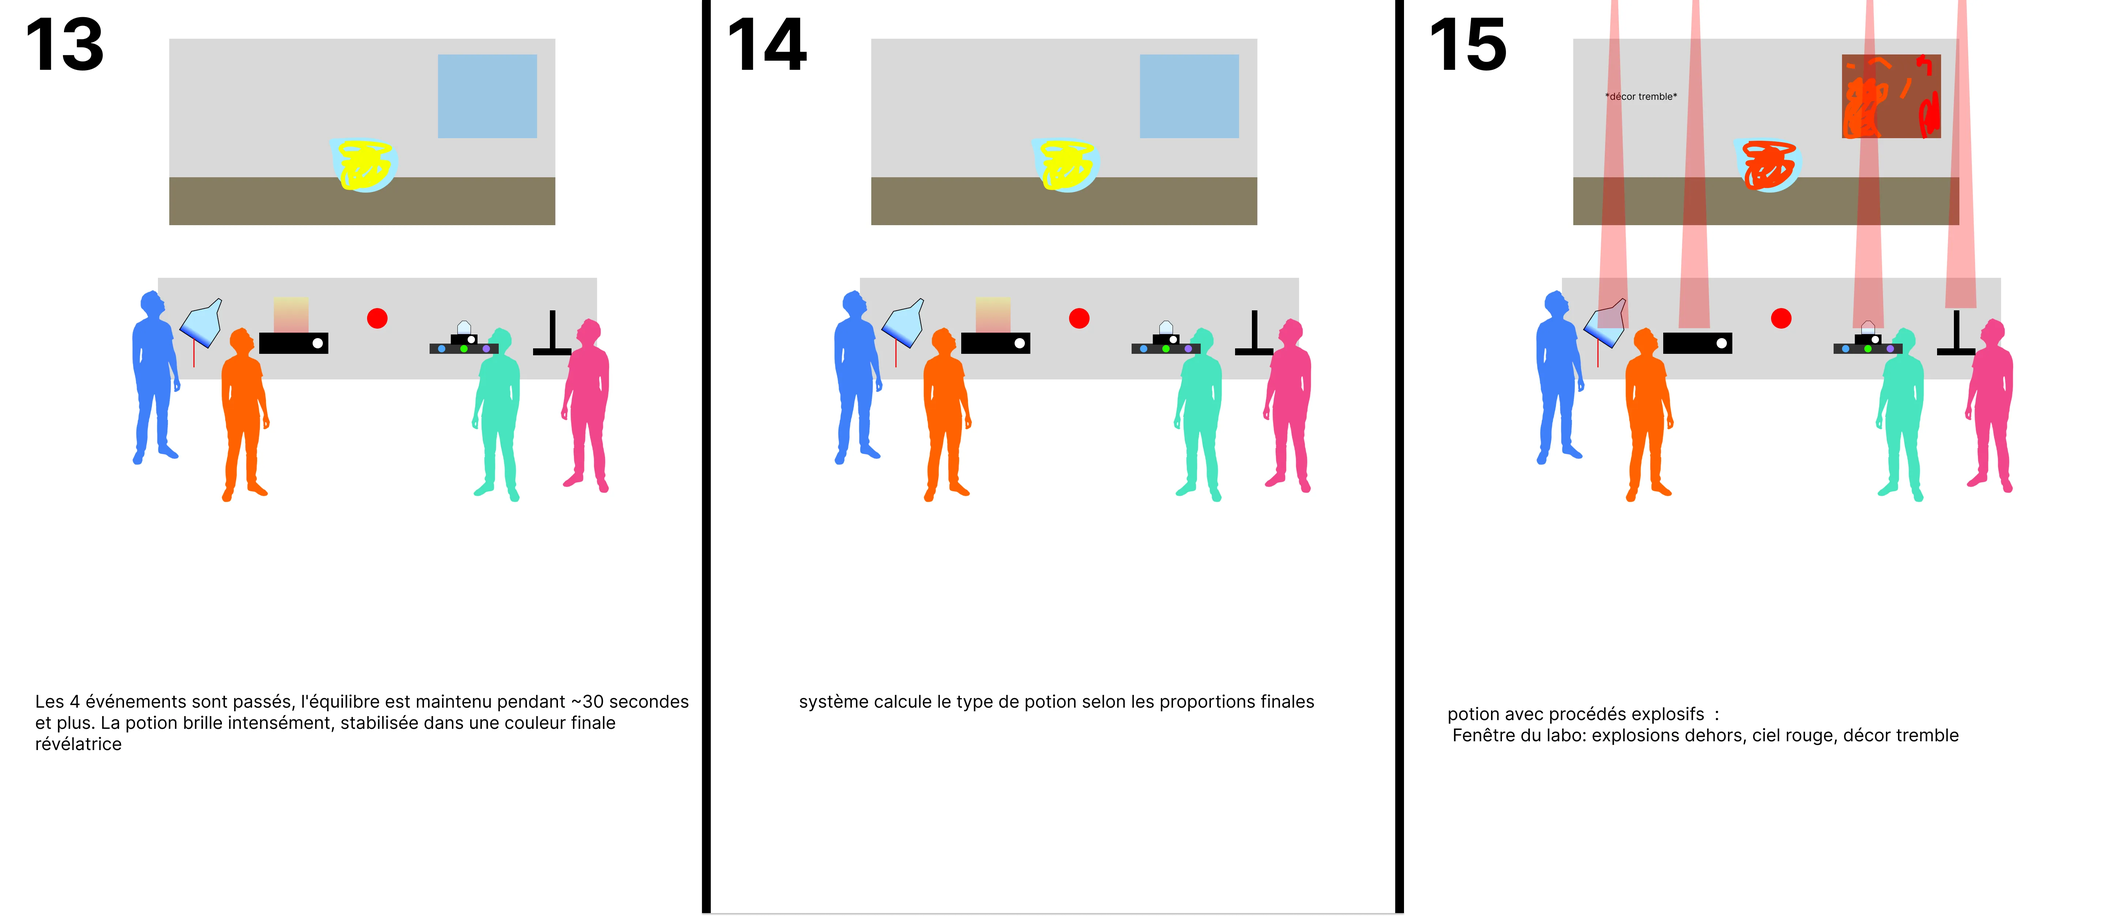
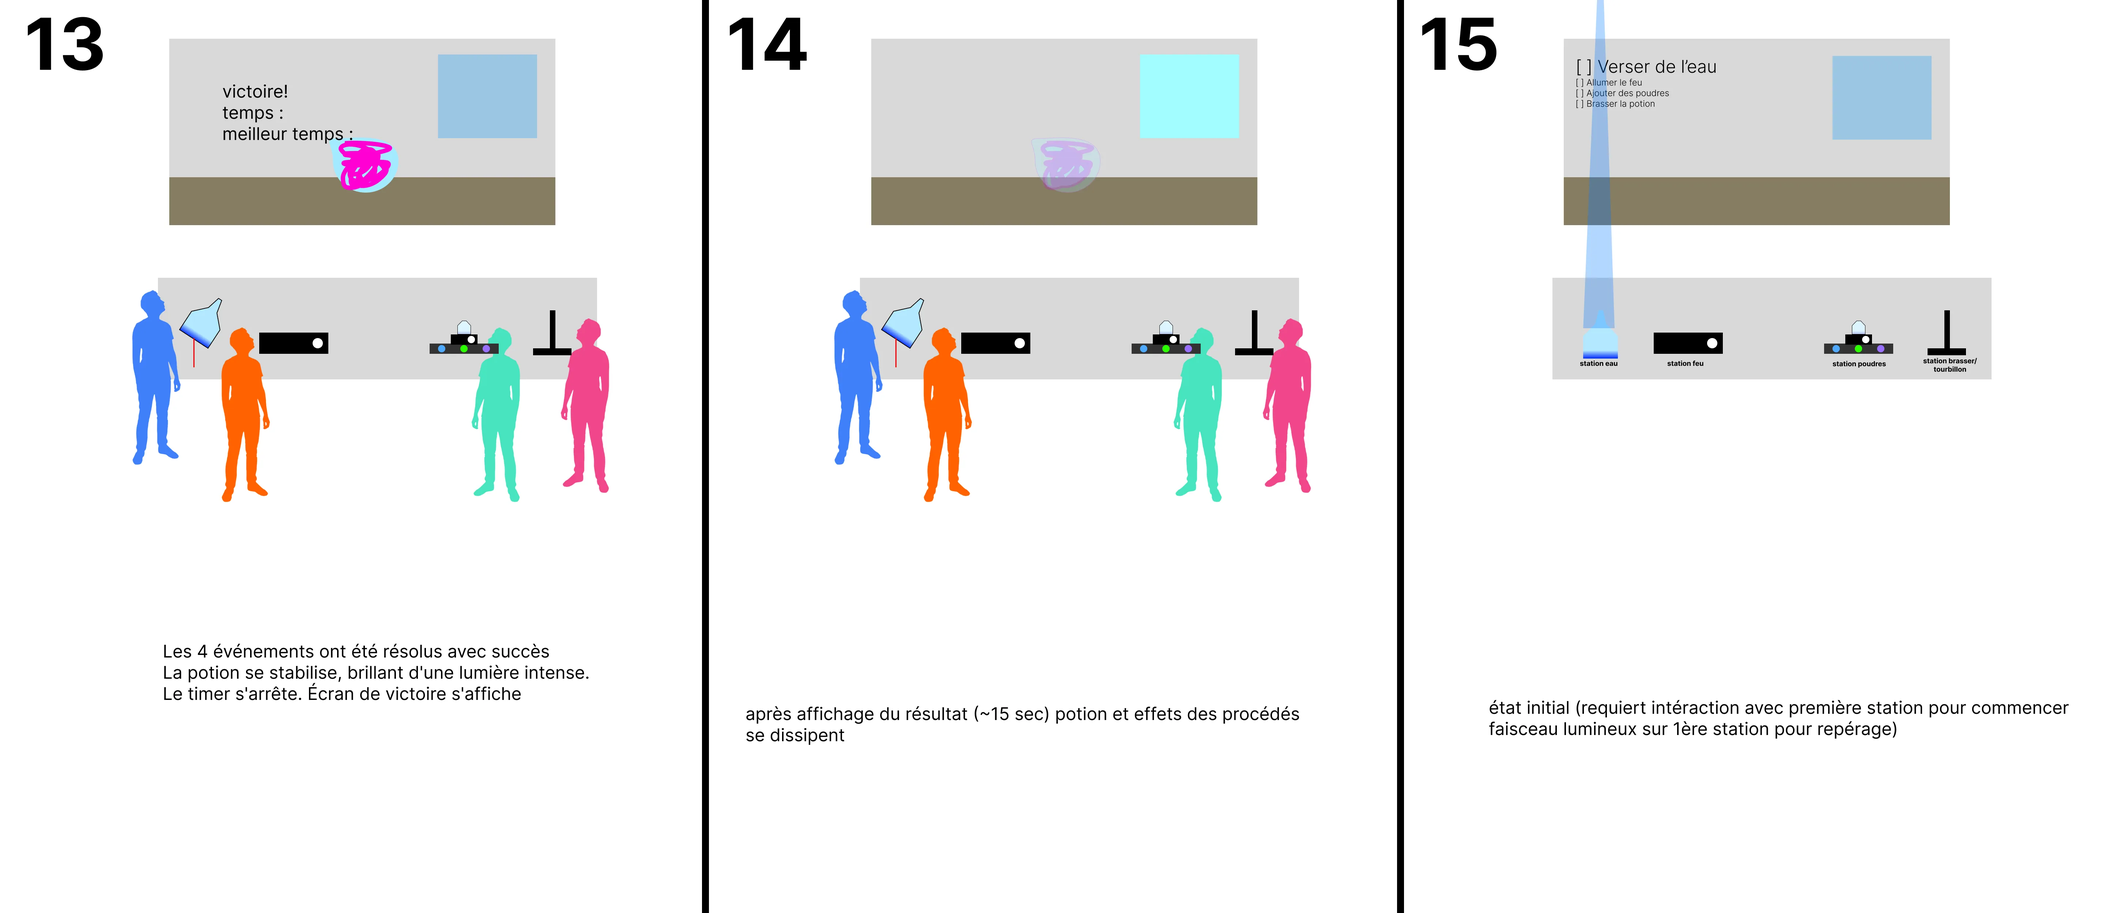
+ Scenarimage

diff --git a/scenario/README.md b/scenario/README.md
@@ -50,20 +50,6 @@ Cette section présente le scénario de l'interactivité du projet Symbiose.
 |--------------|---------------------------|--------------|--------------|------------------|
 | **Basculer** | Le joystick est manipulé dans n'importe quelle direction | La potion tourbillonne dans le bécher, effet de rotation visible. "✓ 4. Brasser la potion" se coche. Tous les faisceaux lumineux s'éteignent. Message central apparaît : "Tutoriel terminé ! Les événements commencent dans 10 secondes..." avec compte à rebours | Son de brassage liquide + Accord de succès musical | Les 4 stations deviennent toutes actives simultanément. La checklist disparaît progressivement |
 
-**Déclencheur suivant** : → Passe à **Scène 5** automatiquement après 10 secondes
-
----
-
-## Scène 5 : Phase active - Préparation libre
-
-| Verbe action | Condition de déclenchement | Effet visuel | Effet sonore | Effet interactif |
-|--------------|---------------------------|--------------|--------------|------------------|
-| **Agiter** | L'erlenmeyer est agité à la station Eau | L'eau continue de se verser dans le bécher, niveau fluctue selon l'intensité | Son d'eau versée (volume proportionnel à l'intensité) | Le niveau d'eau dans la potion varie en temps réel |
-| **Tourner** | Le knob du brûleur est tourné à la station Feu | L'intensité du feu varie (flammes plus ou moins hautes). Les LEDs physiques s'ajustent | Flamme crépitante (intensité variable selon position du knob) | La température de la potion fluctue |
-| **Tourner** | Un des 3 knobs de poudre est tourné à la station Poudres | Flux de poudre colorée s'écoule dans le bécher. La couleur de la potion évolue selon les mélanges | Son de poudre versée + Variations tonales selon la poudre | La composition chimique de la potion change |
-| **Basculer** | Le joystick est manipulé à la station Tourbillon | La rotation de la potion s'intensifie ou ralentit selon la direction et force | Son de tourbillon (intensité variable) | Le brassage affecte la stabilité de la potion |
-| **Expérimenter** | Les 4 participants manipulent librement leurs stations simultanément | La potion réagit de manière complexe : couleurs se mélangent, bulles apparaissent, texture change | Mix sonore des 4 stations + Sons réactifs de la potion (bulles, réactions chimiques) | La potion évolue selon l'équilibre collectif maintenu. Première familiarisation avec la coordination |
-
 **Déclencheur suivant** : → Passe à **Scène 6** automatiquement après 10 secondes (déclenchement du premier événement aléatoire)
 
 ---
@@ -72,11 +58,11 @@ Cette section présente le scénario de l'interactivité du projet Symbiose.
 
 | Verbe action | Condition de déclenchement | Effet visuel | Effet sonore | Effet interactif |
 |--------------|---------------------------|--------------|--------------|------------------|
-| **Réagir** | 10 secondes après la scène 5 | Un événement aléatoire se déclenche parmi : **Évaporation** (station Eau), **Cristallisation** (station Poudres), **Gel** (station Feu), ou **Vortex** (station Tourbillon). Alerte visuelle : flash rouge, jauge de l'événement apparaît. Visuel spécifique à l'événement sur la potion et la fenêtre du laboratoire | Alerte sonore dramatique + Son spécifique à l'événement (ex: sifflement pour évaporation, craquements pour cristallisation) | Seule la station concernée peut résoudre l'événement. Les 3 autres stations restent actives mais n'influencent pas directement la résolution |
+| **Réagir** | 10 secondes après la scène 20 | Un événement aléatoire se déclenche parmi : **Évaporation** (station Eau), **Cristallisation** (station Poudres), **Gel** (station Feu), ou **Vortex** (station Tourbillon). Alerte visuelle : flash rouge, jauge de l'événement apparaît. Visuel spécifique à l'événement sur la potion et la fenêtre du laboratoire | Alerte sonore dramatique + Son spécifique à l'événement (ex: sifflement pour évaporation, craquements pour cristallisation) | Seule la station concernée peut résoudre l'événement. Les 3 autres stations restent actives mais n'influencent pas directement la résolution |
 | **Résoudre** | Le participant à la station concernée exécute l'action requise (voir détails ci-dessous) | La jauge de progression de l'événement se remplit graduellement. Le visuel de crise diminue proportionnellement | Feedback sonore positif progressif (notes ascendantes, sons apaisants) | Chaque action correcte fait progresser la résolution. Les autres participants peuvent surveiller et encourager |
-| **Maintenir** | Le participant continue l'action requise jusqu'à ce que la jauge soit pleine | La jauge atteint 100%. L'événement se résout complètement. Flash vert de succès. La potion revient à un état stable | Accord de victoire + Son de résolution | L'événement est résolu. Transition vers le prochain événement après 5 secondes |
+| **Maintenir** | Le participant continue l'action requise jusqu'à ce que la jauge soit pleine | La jauge atteint 100%. L'événement se résout complètement. Flash vert de succès. La potion revient à un état stable | Accord de victoire + Son de résolution | L'événement est résolu. Transition vers le prochain événement après 20 secondes |
 
-**Déclencheur suivant** : → Passe à **Scène 7** automatiquement 5 secondes après résolution de l'événement
+**Déclencheur suivant** : → Passe à **Scène 7** automatiquement 20 secondes après résolution de l'événement
 
 **Déclencheur échec** : → Passe à **Scène 11 (Échec)** si inactivité prolongée (30 secondes sans action) ou si stabilité globale atteint zéro
 
@@ -86,11 +72,11 @@ Cette section présente le scénario de l'interactivité du projet Symbiose.
 
 | Verbe action | Condition de déclenchement | Effet visuel | Effet sonore | Effet interactif |
 |--------------|---------------------------|--------------|--------------|------------------|
-| **Réagir** | 5 secondes après résolution de l'événement 1 | Deuxième événement aléatoire se déclenche (parmi les 3 événements restants non utilisés). Alerte visuelle et jauge apparaissent | Alerte sonore + Son spécifique au nouvel événement | Seule la nouvelle station concernée peut résoudre |
+| **Réagir** | 20 secondes après résolution de l'événement 1 | Deuxième événement aléatoire se déclenche (parmi les 3 événements restants non utilisés). Alerte visuelle et jauge apparaissent | Alerte sonore + Son spécifique au nouvel événement | Seule la nouvelle station concernée peut résoudre |
 | **Résoudre** | Action spécifique à l'événement (voir détails ci-dessous) | Jauge se remplit, visuel de crise diminue | Feedback positif progressif | Progression vers résolution |
 | **Maintenir** | Action continue jusqu'à jauge pleine | Flash vert de succès, événement résolu | Accord de victoire | Événement résolu |
 
-**Déclencheur suivant** : → Passe à **Scène 8** automatiquement 5 secondes après résolution
+**Déclencheur suivant** : → Passe à **Scène 8** automatiquement 20 secondes après résolution
 
 **Déclencheur échec** : → Passe à **Scène 11 (Échec)** si échec de résolution
 
@@ -100,11 +86,11 @@ Cette section présente le scénario de l'interactivité du projet Symbiose.
 
 | Verbe action | Condition de déclenchement | Effet visuel | Effet sonore | Effet interactif |
 |--------------|---------------------------|--------------|--------------|------------------|
-| **Réagir** | 5 secondes après résolution de l'événement 2 | Troisième événement aléatoire se déclenche (parmi les 2 événements restants). Alerte visuelle et jauge | Alerte sonore + Son spécifique | Seule la station concernée peut résoudre |
+| **Réagir** | 20 secondes après résolution de l'événement 2 | Troisième événement aléatoire se déclenche (parmi les 2 événements restants). Alerte visuelle et jauge | Alerte sonore + Son spécifique | Seule la station concernée peut résoudre |
 | **Résoudre** | Action spécifique à l'événement | Jauge se remplit, visuel diminue | Feedback positif | Progression |
 | **Maintenir** | Action continue jusqu'à résolution | Flash vert, événement résolu | Accord de victoire | Événement résolu |
 
-**Déclencheur suivant** : → Passe à **Scène 9** automatiquement 5 secondes après résolution
+**Déclencheur suivant** : → Passe à **Scène 9** automatiquement 20 secondes après résolution
 
 **Déclencheur échec** : → Passe à **Scène 11 (Échec)** si échec
 
@@ -114,7 +100,7 @@ Cette section présente le scénario de l'interactivité du projet Symbiose.
 
 | Verbe action | Condition de déclenchement | Effet visuel | Effet sonore | Effet interactif |
 |--------------|---------------------------|--------------|--------------|------------------|
-| **Réagir** | 5 secondes après résolution de l'événement 3 | Quatrième et dernier événement se déclenche. Alerte visuelle intense, jauge apparaît | Alerte finale dramatique + Son spécifique + Tension musicale accrue | Dernière station concernée doit résoudre |
+| **Réagir** | 20 secondes après résolution de l'événement 3 | Quatrième et dernier événement se déclenche. Alerte visuelle intense, jauge apparaît | Alerte finale dramatique + Son spécifique + Tension musicale accrue | Dernière station concernée doit résoudre |
 | **Résoudre** | Action spécifique au dernier événement | Jauge se remplit, tension visuelle maximale puis diminue | Feedback positif + Crescendo musical | Approche de la victoire |
 | **Maintenir** | Action continue jusqu'à résolution complète | Flash vert éclatant, tous les événements sont résolus. La potion brille intensément, effet de stabilisation spectaculaire | Crescendo musical victorieux culminant | Les 4 événements sont terminés |
 
@@ -128,9 +114,9 @@ Cette section présente le scénario de l'interactivité du projet Symbiose.
 
 | Verbe action | Condition de déclenchement | Effet visuel | Effet sonore | Effet interactif |
 |--------------|---------------------------|--------------|--------------|------------------|
-| **Contempler** | Les 4 événements ont été résolus avec succès | La potion se stabilise, brillant d'une lumière intense. Le timer s'arrête. Écran de victoire s'affiche : "POTION STABILISÉE !" + Temps réalisé (ex: 5:32) + Record absolu (ex: 4:12) + Message : "EXCELLENT TRAVAIL D'ÉQUIPE !" + "Pouvez-vous faire mieux ?" | Thème musical de victoire triomphant | Toutes les stations deviennent inactives. Le timer final est enregistré |
+| **Contempler** | Les 4 événements ont été résolus avec succès | La potion se stabilise, brillant d'une lumière intense. Le timer s'arrête. Écran de victoire s'affiche : "POTION STABILISÉE !" + Temps réalisé (ex: 20:32) + Record absolu (ex: 4:12) + Message : "EXCELLENT TRAVAIL D'ÉQUIPE !" + "Pouvez-vous faire mieux ?" | Thème musical de victoire triomphant | Toutes les stations deviennent inactives. Le timer final est enregistré |
 
-**Déclencheur suivant** : → Passe à **Scène 12 (Réinitialisation)** automatiquement après 15 secondes d'affichage
+**Déclencheur suivant** : → Passe à **Scène 12 (Réinitialisation)** automatiquement après 120 secondes d'affichage
 
 ---
 
@@ -148,7 +134,7 @@ Cette section présente le scénario de l'interactivité du projet Symbiose.
 
 | Verbe action | Condition de déclenchement | Effet visuel | Effet sonore | Effet interactif |
 |--------------|---------------------------|--------------|--------------|------------------|
-| **Attendre** | Après affichage de victoire (15 sec) ou d'échec (8 sec) | L'écran de résultat disparaît progressivement en fondu. La potion se dissipe du bécher. Le laboratoire revient à son état initial vide. Le bécher redevient transparent et vide | Sons s'éteignent doucement. Retour progressif à l'ambiance calme du laboratoire | Toutes les stations se désactivent. Le timer se réinitialise à zéro. Le système retourne à l'état d'attente |
+| **Attendre** | Après affichage de victoire (120 sec) ou d'échec (8 sec) | L'écran de résultat disparaît progressivement en fondu. La potion se dissipe du bécher. Le laboratoire revient à son état initial vide. Le bécher redevient transparent et vide | Sons s'éteignent doucement. Retour progressif à l'ambiance calme du laboratoire | Toutes les stations se désactivent. Le timer se réinitialise à zéro. Le système retourne à l'état d'attente |
 
 **Déclencheur suivant** : → Retourne à **Scène 0 (Découverte)** automatiquement, prêt pour de nouveaux participants
 

diff --git a/concept/README.md b/concept/README.md
@@ -28,9 +28,9 @@ Symbiose est un jeu coopératif de gestion de crise où 4 participants doivent s
 
 ### Le parcours de l'interacteur
 
-L'interacteur découvre un laboratoire de chimie projeté et quatre stations physiques disposées autour d'une table. Un faisceau lumineux rayonne sur la première station, incitant à son intéraction, s'en suit un tutoriel par cases à cocher (1ère personne intéragit avec première personne, dévérouille 2ème station (faisceau lumineux), ainsi de suite). Chaque participant choisit une station et commence à doser son ingrédient : l'un verse de l'eau en agitant un erlenmeyer équipé d'un accéléromètre, un autre contrôle l'intensité du feu via un brûleur avec bouton rotatif et LEDs, un troisième sélectionne et dose des poudres colorées avec un agitateur magnétique, et le dernier brasse la potion à l'aide d'un joystick déguisé. La potion transparente commence à se transformer selon leurs dosages combinés.
-Puis, toutes les 1-2 minutes, un événement aléatoire se déclenche : évaporation du liquide, flamme instable, flamme faible, ou gel total. Chaque défi force les participants à réagir rapidement, à communiquer et à s'entraider. Si l'équilibre est rompu, la potion explose et l'expérience recommence.
-Après avoir survécu aux quatre événements et maintenu un équilibre stable, la potion se finalise. Une narration révèle le nom du nouveau composé créé et ses propriétés. Le résultat visuel se manifeste à travers la fenêtre du laboratoire.
+L'interacteur découvre un laboratoire de chimie projeté et quatre stations physiques disposées autour d'une table. Un faisceau lumineux rayonne sur la première station, incitant à son intéraction, s'en suit un tutoriel par cases à cocher (1ère personne intéragit avec première personne, dévérouille 2ème station (faisceau lumineux), ainsi de suite). Chaque participant choisit une station et commence à doser son ingrédient : l'un verse de l'eau en agitant un erlenmeyer équipé d'un accéléromètre, un autre contrôle l'intensité du feu via un brûleur avec bouton rotatif et LEDs, un troisième sélectionne et dose des poudres colorées avec un agitateur magnétique, et le dernier brasse la potion à l'aide d'un joystick déguisé. La potion transparente commence à se transformer grâce leurs dosages combinés.
+Puis, toutes les 1-2 minutes, un événement aléatoire se déclenche : évaporation du liquide, le gel, la crystalisation et le vortex.
+Après avoir survécu aux quatre événements, la potion se finalise. Une narration révèle le temps qui a été passé pour stabiliser la potion.
 
 <!-- 
 Comportement de l'interacteur
@@ -61,7 +61,7 @@ Un collectif désigne l'ensemble de personnes ou d'entités qui s'unissent de ma
  Ce groupe, souvent considéré comme une entité à vocation communautaire, fonctionne sous le pilotage de ses membres et repose sur une volonté partagée de développer des solidarités.
 -->
 
-L'expérience repose entièrement sur la participation collective de quatre personnes simultanément. Chaque participant contrôle un ingrédient/procédé essentiel à la potion, contribuant ainsi à l'équilibre global du système. Plus les quatre participants coordonnent leurs actions, plus la potion se stabilise et progresse vers sa finalisation. Plus la coordination est précise, plus la potion révèle ses propriétés uniques. Le collectif devient ici le moteur même de l'expérience : sans les trois autres, aucun participant ne peut réussir seul à créer la potion. L'œuvre met en valeur la force du « nous », une création née de la cohabitation et de la synchronisation des quatre personnes dans l'espace commun.
+L'expérience repose entièrement sur la participation collective de quatre personnes simultanément. Chaque participant contrôle un ingrédient/procédé essentiel à la potion, contribuant ainsi à l'équilibre global du système. Plus les quatre participants coordonnent leurs actions, plus la potion se stabilise et progresse vers sa finalisation. Le collectif devient ici le moteur même de l'expérience : sans les trois autres, aucun participant ne peut réussir seul à stabilisé la potion. L'œuvre met en valeur la force du « nous », une création née de la cohabitation et de la synchronisation des quatre personnes dans l'espace commun.
 
 ### L'aspect social
 
@@ -74,7 +74,7 @@ Le terme « social » désigne ce qui concerne la vie en société, c'est-à-dir
  L'adjectif peut aussi qualifier des animaux ou des plantes vivant en communauté selon des règles strictes, comme les insectes sociaux (fourmis, abeilles) ou certaines espèces végétales formant des colonies denses.
 -->
 
-L'aspect social est représenté par la négociation constante entre les participants. "Nous" créons un espace où chaque geste individuel prend sens à travers les autres. Ensemble, les participants équilibrent une potion commune, viable uniquement par la communication et le compromis. L'œuvre illustre comment nos actions isolées peuvent s'unir pour former une réussite collective plus grande que nous-mêmes. En s'entraidant face aux événements, chacun devient conscient de son rôle interdépendant dans un système plus vaste. La forme finale de la potion montre que nos dosages isolés deviennent une création commune grâce aux autres. L'œuvre souligne aussi le caractère social de la négociation : les participants doivent constamment communiquer ("J'ai besoin de plus de feu !" / "Non, ça va faire exploser la potion !"), se faire confiance, et accepter des compromis pour maintenir l'équilibre.
+L'aspect social est représenté par la coopération constante entre les participants. "Nous" créons un espace où chaque geste individuel prend sens à travers les autres. Ensemble, les participants équilibrent une potion commune, viable uniquement par la communication. L'œuvre illustre comment nos actions isolées peuvent s'unir pour former une réussite collective plus grande que nous-mêmes. En s'entraidant face aux événements, chacun devient conscient de son rôle interdépendant dans un système plus vaste. La forme finale de la potion montre que nos dosages isolés deviennent une création commune grâce aux autres.
  
 ## Inspirations
 
@@ -139,13 +139,11 @@ Installation interactive et immersive qui utilise un objet physique en temps ré
 
 ## Scénarimage
 
-![Quatre personnes approchent l'installation et découvrent les quatre stations autour de la table. Chaque personne choisit une station et commence à manipuler son ingrédient. ](scenarimage1.png)
-![La potion transparente commence à se colorer et réagiré. Les participants expérimentent librement pendant la phase de préparation. La potion évolue selon leurs combinaisons. ](scenarimage2.png)
-![Événements aléatoire : Évaporation et Flamme instable. Évaporation : Le liquide diminue rapidement. La personne à la station eau agite frénétiquement l'erlenmeyer pour compenser. Les autres surveillent leurs dosages ; Flamme instable : Le feu devient chaotique à l'écran. La personne au brûleur doit ajuster le bouton en rythme précis. Les autres ralentissent leurs dosages pour aider](scenarimage3.webp)
-![Événements aléatoire :  Flamme faible et Gel. Flamme faible : Le feu diminue dangereusement. La personne au feu tourne le bouton au maximum. Les autres maintiennent leurs dosages stables pour ne pas surcharger ; Gel : Tous les ingrédients se figent dans la potion. Les quatre participants agitent et manipulent frénétiquement leurs stations ensemble pour dégeler](scenarimage4.webp)
-![Les quatre événements sont passés. Les participants maintiennent l'équilibre final. La potion se stabilise, brillant d'une couleur révélatrice](scenarimage5.webp)
-![La narration finale apparaît. La fenêtre du laboratoire montre le résultat : explosions et ciel rouge (potion explosive), papillons et fleurs (potion curative), ou gaz vert et têtes de mort (potion toxique), ou objets flottants et monde inversé (potion magique)](scenarimage6.webp)
-![L'effet visuel se dissipe progressivement, la potion disparaît du bécher, le laboratoire revient à son état initial. Les participants se retirent, satisfaits de leur collaboration](scenarimage7.webp)
+![Quatre personnes approchent l'installation et découvrent les quatre stations autour de la table. Tutoriel progressif.](scenarimage1.webp)
+![Tutoriel progressif](scenarimage2.webp)
+![Événements aléatoire : Évaporation, Gel](scenarimage3.webp)
+![Événements aléatoire : Cristallisation, Vortex](scenarimage4.webp)
+![Les quatre événements sont passés. La fin se révèle avec le temps, meilleur temps, ensuite retour à état initial](scenarimage5.webp)
 
 <!-- Pour chaque étape/scène : une image avec du texte descriptif et une explication de la transition -->
 
